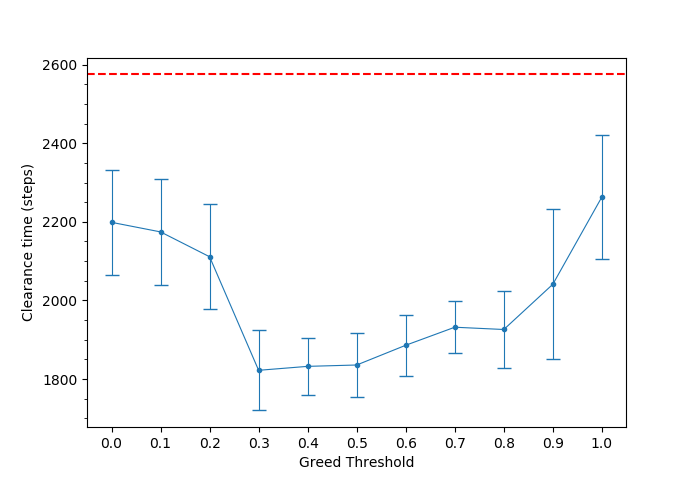
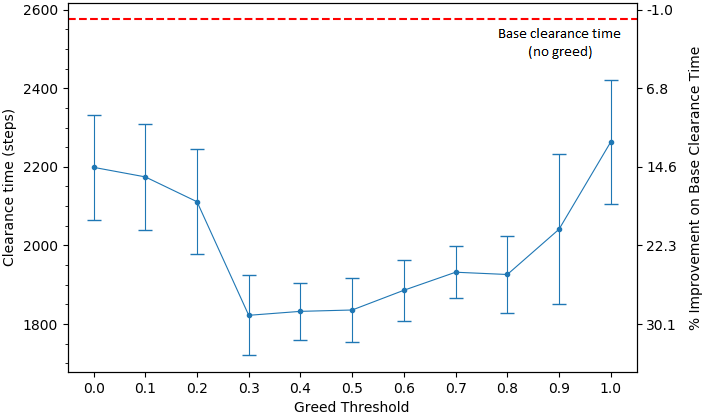
More experiments n tings

diff --git a/src/main/python/greedThresholdPlot.py b/src/main/python/greedThresholdPlot.py
@@ -9,7 +9,7 @@ from scipy import interpolate
 import re
 import copy 
 import sys
-from matplotlib.ticker import MultipleLocator
+import matplotlib.ticker as mticker
 
 def parseFile(file):
 
@@ -37,6 +37,7 @@ def parseFile(file):
     a = np.array(data)
 
     return a
+
 def main():     
     mainArray = parseFile(sys.argv[1])
     baseValues = parseFile(sys.argv[2])
@@ -44,20 +45,28 @@ def main():
     baseAverage = np.mean(baseValues)
     baseStd = np.std(baseValues)
 
+
     xs = mainArray[:,0]
     raw_ys = mainArray[:,1]
     average_ys = [np.mean(i) for i in raw_ys]
     std_dev_ys = [np.std(i) for i in raw_ys]
+    percentageImprovement_ys = [(100*(1-(value/baseAverage))) for value in average_ys]
 
-    plt.errorbar(xs,average_ys,std_dev_ys,fmt='-o',linewidth=0.8,capsize=5,ms=3)
-    plt.axhline(y=baseAverage, ls='dashed',color='r',label='Clearance Time without greed')
-    # plt.axhline(y=baseAverage-baseStd, ls='dashed',color='r',label='Clearance Time without greed')
-    # plt.axhline(y=baseAverage+baseStd, ls='dashed',color='r',label='Clearance Time without greed')
-    plt.minorticks_on()
-    plt.tick_params(axis='x', which='minor', bottom=False)
-    plt.xlabel("Greed Threshold")
-    plt.xticks(xs,xs)
-    plt.ylabel("Clearance time (steps)")
+    fig, ax1 = plt.subplots()
+    ax1.errorbar(xs,average_ys,std_dev_ys,fmt='-o',linewidth=0.8,capsize=5,ms=3)
+    ax1.axhline(y=baseAverage, ls='dashed',color='r',label='Clearance Time without greed')
+    ax1.minorticks_on()
+    ax1.set_xticks(list(xs))
+    ax1.tick_params(axis='x', which='minor', bottom=False)
+    ax1.set_xlabel("Greed Threshold")
+    ax1.set_ylabel("Clearance time (steps)")
+    
+    ax2 = ax1.twinx()
+    ax2.set_ylabel("% Improvement on Base Clearance Time")
+    ax2.set_ylim(ax1.get_ylim())
+
+    formatter = mticker.FuncFormatter(lambda u, pos: '{:.1f}'.format(100*(1-(u/baseAverage))))
+    ax2.yaxis.set_major_formatter(formatter)
     plt.show()
 
 if __name__ == "__main__":

diff --git a/src/main/java/simulation/agents/Car.java b/src/main/java/simulation/agents/Car.java
@@ -331,7 +331,6 @@ public class Car extends SimplePortrayal2D implements Steppable {
                         Edge edgeFromUpcomingJunction = (Edge) o;
                         Road roadFromUpcomingJunction = (Road) edgeFromUpcomingJunction.getInfo();
                         double eCongestion = roadFromUpcomingJunction.getCongestion(vehicleBuffer);
-
                         if(eCongestion <= minimumCongestion){
                             if((eCongestion==minimumCongestion) && simulation.random.nextBoolean(0.5)){
                                 continue;
@@ -359,7 +358,7 @@ public class Car extends SimplePortrayal2D implements Steppable {
                         if(!spawned){
                             index = 0;
                         }
-                        if(getPathLength(tempRoute,0)<=getPathLength(route,index)*greedMaxLengthFactor){
+                        if(getPathLength(tempRoute,index)<=getPathLength(route,index)*greedMaxLengthFactor){
                             route = tempRoute;
                             pathIndex = 0;
                             if(spawned){

diff --git a/src/main/java/simulation/environment/Junction.java b/src/main/java/simulation/environment/Junction.java
@@ -30,7 +30,7 @@ public class Junction extends SimplePortrayal2D{
         if(isExit){
             graphics.setColor(Color.green);
         }
-        graphics.fillOval((int)(info.draw.x-16/2),(int)(info.draw.y-16/2),(int)(16),(int)(16));
+        graphics.fillOval((int)(info.draw.x-6/2),(int)(info.draw.y-6/2),(int)(6),(int)(6));
     }
 
     public boolean isExit() {
